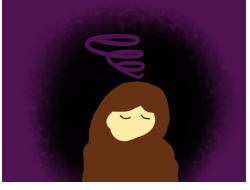
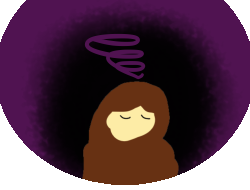
- More art - enhanced flavor text for relics during TSD - Demoralize changes - Burden buff - Gaze nerf - Giant Bow->Purple Bow - Unique dialog when getting the "bad" ending - Forget VFX position update

diff --git a/src/main/java/code/relics/Everything.java b/src/main/java/code/relics/Everything.java
@@ -4,49 +4,50 @@ import code.ModFile;
 import code.TheDisplaced;
 import com.megacrit.cardcrawl.cards.AbstractCard;
 import com.megacrit.cardcrawl.cards.CardGroup;
+import com.megacrit.cardcrawl.core.Settings;
 import com.megacrit.cardcrawl.dungeons.AbstractDungeon;
+import com.megacrit.cardcrawl.events.AbstractEvent;
 import com.megacrit.cardcrawl.helpers.CardLibrary;
 import com.megacrit.cardcrawl.relics.AbstractRelic;
 import com.megacrit.cardcrawl.unlock.UnlockTracker;
 import com.megacrit.cardcrawl.vfx.FastCardObtainEffect;
+import com.megacrit.cardcrawl.vfx.UpgradeShineEffect;
+import com.megacrit.cardcrawl.vfx.cardManip.ShowCardBrieflyEffect;
+
+import java.util.*;
 
 import static code.ModFile.makeID;
 
 public class Everything extends AbstractEasyRelic {
     public static final String ID = makeID("Everything");
 
-    private boolean choosing = false;
+    private static final int UPGRADES = 5;
     public Everything() {
         super(ID, RelicTier.BOSS, LandingSound.FLAT, TheDisplaced.Enums.DISPLACED_COLOR);
     }
 
     @Override
     public void onEquip() {
-        CardGroup group = new CardGroup(CardGroup.CardGroupType.UNSPECIFIED);
-        for (AbstractCard card : CardLibrary.getAllCards()) {
-            if (card.color == TheDisplaced.Enums.DISPLACED_COLOR) {
-                AbstractCard option = card.makeCopy();
-                for (AbstractRelic relic : AbstractDungeon.player.relics) {
-                    relic.onPreviewObtainCard(option);
-                    UnlockTracker.markCardAsSeen(option.cardID);
-                }
-                group.addToBottom(option);
+        AbstractDungeon.topLevelEffects.add(new UpgradeShineEffect((float) Settings.WIDTH / 2.0F, (float)Settings.HEIGHT / 2.0F));// 99
+        ArrayList<AbstractCard> upgradableCards = new ArrayList<>();
+
+        for(AbstractCard c : AbstractDungeon.player.masterDeck.group){
+            if (c.canUpgrade()) {
+                upgradableCards.add(c);
             }
-            choosing = true;
-            AbstractDungeon.gridSelectScreen.open(group, 1, "Choose a card to obtain.", false);
+        }
+
+        Collections.shuffle(upgradableCards, new Random(AbstractDungeon.miscRng.randomLong()));
+        for(int i = 0; i < UPGRADES && i < upgradableCards.size(); i++){
+            AbstractCard upgradedCard = upgradableCards.get(i);
+            upgradedCard.upgrade();
+            AbstractDungeon.player.bottledCardUpgradeCheck(upgradedCard);
+            AbstractDungeon.effectList.add(new ShowCardBrieflyEffect(upgradedCard.makeStatEquivalentCopy()));
         }
     }
 
     @Override
-    public void update()
-    {
-        super.update();
-        if (choosing && !AbstractDungeon.gridSelectScreen.selectedCards.isEmpty()){
-            choosing = false;
-            AbstractCard selected = AbstractDungeon.gridSelectScreen.selectedCards.get(0);
-            AbstractDungeon.gridSelectScreen.selectedCards.clear();
-            UnlockTracker.markCardAsSeen(selected.cardID);
-            AbstractDungeon.effectsQueue.add(new FastCardObtainEffect(selected, selected.current_x, selected.current_y));
-        }
+    public String getUpdatedDescription() {
+        return DESCRIPTIONS[0] + UPGRADES + DESCRIPTIONS[1];
     }
 }

diff --git a/src/main/java/code/patches/SpireHeartPatch.java b/src/main/java/code/patches/SpireHeartPatch.java
@@ -1,0 +1,44 @@
+package code.patches;
+
+import basemod.ReflectionHacks;
+import code.TheDisplaced;
+import com.evacipated.cardcrawl.modthespire.lib.*;
+import com.evacipated.cardcrawl.modthespire.patcher.PatchingException;
+import com.megacrit.cardcrawl.dungeons.AbstractDungeon;
+import javassist.CannotCompileException;
+import javassist.CtBehavior;
+import com.megacrit.cardcrawl.events.beyond.SpireHeart;
+
+import java.text.NumberFormat;
+import java.util.Locale;
+
+@SpirePatch2(
+    clz=SpireHeart.class,
+    method="buttonEffect"
+)
+public class SpireHeartPatch {
+
+    @SpireInsertPatch(locator = InDeathCaseLocator.class)
+    public static void LocalCase(SpireHeart __instance) {
+        if(AbstractDungeon.player instanceof TheDisplaced){
+            long globalDamageDealt = ReflectionHacks.getPrivate(__instance, SpireHeart.class, "globalDamageDealt");
+            String[] eventText = ReflectionHacks.getPrivate(__instance, SpireHeart.class, "DESCRIPTIONS");
+
+            long totalDamageDealt = ReflectionHacks.getPrivate(__instance, SpireHeart.class, "totalDamageDealt");
+            NumberFormat numberFormat = NumberFormat.getNumberInstance(Locale.US);
+            if(globalDamageDealt <= 0L){
+                __instance.roomEventText.updateBodyText(eventText[3] + numberFormat.format(totalDamageDealt) + eventText[4] + TheDisplaced.getHeartFailureText());
+            }else{
+                __instance.roomEventText.updateBodyText(eventText[3] + numberFormat.format(totalDamageDealt) + eventText[4] + eventText[5] + numberFormat.format(globalDamageDealt) + eventText[6] + TheDisplaced.getHeartFailureText());
+            }
+        }
+    }
+
+    private static class InDeathCaseLocator extends SpireInsertLocator {
+        public int[] Locate(CtBehavior ctMethodToPatch) throws CannotCompileException, PatchingException {
+            Matcher finalMatcher = new Matcher.MethodCallMatcher("com.megacrit.cardcrawl.events.RoomEventDialog", "updateDialogOption");
+            int[] allLocations = LineFinder.findAllInOrder(ctMethodToPatch, finalMatcher);
+            return new int[]{allLocations[3]};
+        }
+    }
+}

diff --git a/src/main/java/code/relics/AbstractEasyRelic.java b/src/main/java/code/relics/AbstractEasyRelic.java
@@ -1,7 +1,15 @@
 package code.relics;
 
+import basemod.ReflectionHacks;
 import basemod.abstracts.CustomRelic;
+import code.ModFile;
+import code.patches.CardStringsPatch;
+import code.patches.RelicStringsPatch;
+import code.util.charUtil.CardUtil;
+import com.evacipated.cardcrawl.mod.stslib.patches.FlavorText;
 import com.megacrit.cardcrawl.cards.AbstractCard;
+import com.megacrit.cardcrawl.core.CardCrawlGame;
+import com.megacrit.cardcrawl.localization.RelicStrings;
 import com.megacrit.cardcrawl.relics.AbstractRelic;
 import code.util.TexLoader;
 
@@ -23,5 +31,21 @@ public abstract class AbstractEasyRelic extends CustomRelic {
 
     public String getUpdatedDescription() {
         return DESCRIPTIONS[0];
+    }
+
+    /*
+    This method is called on the relic whenever the popup view is opened. How convenient!
+     */
+    @Override
+    public void playLandingSFX(){
+        super.playLandingSFX();
+
+        RelicStrings relicStrings = ReflectionHacks.getPrivateInherited(this, AbstractEasyRelic.class, "relicStrings");
+
+        if(CardUtil.isTimeStopped() && RelicStringsPatch.RelicStringsFlavorField.enhancedFlavor.get(relicStrings) != null){
+            this.flavorText = RelicStringsPatch.RelicStringsFlavorField.enhancedFlavor.get(relicStrings);
+        }else{
+            this.flavorText = relicStrings.FLAVOR;
+        }
     }
 }

diff --git a/src/main/java/code/actions/DisplayCardAction.java b/src/main/java/code/actions/DisplayCardAction.java
@@ -7,25 +7,20 @@ import com.megacrit.cardcrawl.dungeons.AbstractDungeon;
 
 public class DisplayCardAction extends AbstractGameAction {
     private AbstractCard card;
-    boolean toTheSide = false;
     public DisplayCardAction(AbstractCard cardIn) {
         this.duration = 0.6f;
         card = cardIn;
         this.actionType = ActionType.SPECIAL;
-        toTheSide = false;
-    }
-
-    public DisplayCardAction(AbstractCard cardIn, boolean toTheSideIn) {
-        this.duration = 0.6f;
-        card = cardIn;
-        this.actionType = ActionType.SPECIAL;
-        toTheSide = toTheSideIn;
     }
 
     public void update() {
         if (this.duration == 0.6f) {
             AbstractDungeon.player.limbo.group.add(card);
-            card.target_x = ((float)Settings.WIDTH / 2.0F) + (toTheSide ? (150 * Settings.xScale) : 0);
+            if(card.current_x >= Settings.WIDTH / 2.0f){
+                card.target_x = ((float)Settings.WIDTH / 2.0F) + (300 * Settings.scale);
+            }else{
+                card.target_x = ((float)Settings.WIDTH / 2.0F) - (300 * Settings.scale);
+            }
             card.target_y = (float)Settings.HEIGHT / 2.0F;
             card.targetAngle = 0.0F;
             card.drawScale = 0.25F;

diff --git a/src/main/java/code/util/charUtil/mods/TemporaryModifier.java b/src/main/java/code/util/charUtil/mods/TemporaryModifier.java
@@ -51,13 +51,17 @@ public class TemporaryModifier extends AbstractCardModifier {
         card.initializeDescription();
         if (counter <= 0) {
             if(group.type != CardGroup.CardGroupType.HAND) {
+                card.drawScale = 0.75f;
                 if (group.type == CardGroup.CardGroupType.DRAW_PILE) {
+                    card.current_x = CardGroup.DRAW_PILE_X;
+                    card.current_y = CardGroup.DRAW_PILE_Y;
                     card.target_x = MathUtils.random((float) Settings.WIDTH * 0.1F, (float) Settings.WIDTH * 0.4F);
                 } else if (group.type == CardGroup.CardGroupType.DISCARD_PILE) {
+                    card.current_x = CardGroup.DISCARD_PILE_X;
+                    card.current_y = CardGroup.DISCARD_PILE_Y;
                     card.target_x = MathUtils.random((float) Settings.WIDTH * 0.6F, (float) Settings.WIDTH * 0.9F);
                 }
                 card.target_y = MathUtils.random((float)Settings.HEIGHT * 0.8F, (float)Settings.HEIGHT * 0.35F);
-
             }
             this.addToTop(new ExhaustSpecificCardAction(card, group, false));
         }

diff --git a/src/main/java/code/cards/collectible/uncommon/skill/LetGo.java b/src/main/java/code/cards/collectible/uncommon/skill/LetGo.java
@@ -8,6 +8,7 @@ import com.megacrit.cardcrawl.actions.AbstractGameAction;
 import com.megacrit.cardcrawl.actions.common.ExhaustSpecificCardAction;
 import com.megacrit.cardcrawl.actions.common.GainEnergyAction;
 import com.megacrit.cardcrawl.cards.AbstractCard;
+import com.megacrit.cardcrawl.cards.CardGroup;
 import com.megacrit.cardcrawl.characters.AbstractPlayer;
 import com.megacrit.cardcrawl.core.Settings;
 import com.megacrit.cardcrawl.monsters.AbstractMonster;
@@ -27,6 +28,8 @@ public class LetGo extends AbstractEasyCard {
             public void update() {
                 if(!p.drawPile.isEmpty()) {
                     AbstractCard toExhaust = p.drawPile.getTopCard();
+                    toExhaust.current_x = CardGroup.DRAW_PILE_X;
+                    toExhaust.current_y = CardGroup.DRAW_PILE_Y;
                     toExhaust.target_x = (float) Settings.WIDTH / 2.0F - 300.0F * Settings.scale;
                     toExhaust.target_y = (float) Settings.HEIGHT / 2.0F;
                     addToTop(new ExhaustSpecificCardAction(toExhaust, p.drawPile));

diff --git a/src/main/java/code/cards/collectible/uncommon/skill/Burden.java b/src/main/java/code/cards/collectible/uncommon/skill/Burden.java
@@ -15,20 +15,23 @@ public class Burden extends AbstractEasyCard implements ForgetCard {
     public final static String ID = makeID(Burden.class.getSimpleName());
 
     public Burden() {
-        super(ID, -2, CardType.SKILL, CardRarity.UNCOMMON, CardTarget.SELF);
+        super(ID, 2, CardType.SKILL, CardRarity.UNCOMMON, CardTarget.SELF);
         baseMagicNumber = magicNumber = 4;
+        exhaust = true;
     }
 
     public void use(AbstractPlayer p, AbstractMonster m) {
     }
 
+    /*
     public boolean canUse(AbstractPlayer p, AbstractMonster m) {
         this.cantUseMessage = cardStrings.EXTENDED_DESCRIPTION[0];
         return false;
     }
 
+     */
+
     public void upp() {
-        upgradeBlock(2);
         upgradeMagicNumber(2);
     }
 

diff --git a/src/main/java/code/patches/RelicStringsPatch.java b/src/main/java/code/patches/RelicStringsPatch.java
@@ -1,0 +1,23 @@
+package code.patches;
+
+import com.evacipated.cardcrawl.modthespire.lib.SpireField;
+import com.evacipated.cardcrawl.modthespire.lib.SpirePatch;
+import com.google.gson.annotations.SerializedName;
+import com.megacrit.cardcrawl.localization.CardStrings;
+import com.megacrit.cardcrawl.localization.RelicStrings;
+
+public class RelicStringsPatch {
+    @SpirePatch(
+            clz = RelicStrings.class,
+            method = "<class>"
+    )
+    public static class RelicStringsFlavorField {
+        @SerializedName("ENHANCED_FLAVOR")
+        public static SpireField<String> enhancedFlavor = new SpireField(() -> {
+            return null;
+        });
+
+        public RelicStringsFlavorField() {
+        }
+    }
+}

diff --git a/src/main/java/code/TheDisplaced.java b/src/main/java/code/TheDisplaced.java
@@ -39,7 +39,7 @@ public class TheDisplaced extends CustomPlayer {
     static final String[] TEXT = characterStrings.TEXT;
 
     public static String getNeowGreeting(){
-        return characterStrings.TEXT[MathUtils.random(5,TEXT.length - 1)];
+        return characterStrings.TEXT[MathUtils.random(6,TEXT.length - 1)];
     }
 
     public static String getSensoryStone(){
@@ -48,6 +48,10 @@ public class TheDisplaced extends CustomPlayer {
 
     public static String getGhostsDialog(){
         return characterStrings.TEXT[4];
+    }
+
+    public static String getHeartFailureText(){
+        return characterStrings.TEXT[5];
     }
 
     public TheDisplaced(String name, PlayerClass setClass) {

diff --git a/src/main/java/code/cards/collectible/common/skill/FutureSight.java b/src/main/java/code/cards/collectible/common/skill/FutureSight.java
@@ -15,7 +15,7 @@ public class FutureSight extends AbstractEasyCard implements ForgetCard {
     public FutureSight() {
         super(ID, 1, CardType.SKILL, CardRarity.COMMON, CardTarget.SELF);
         isEthereal = true;
-        baseBlock = block = 7;
+        baseBlock = block = 10;
         baseMagicNumber = magicNumber = 1;
     }
 
@@ -24,7 +24,8 @@ public class FutureSight extends AbstractEasyCard implements ForgetCard {
     }
 
     public void upp() {
-        upgradeMagicNumber(1);
+        upgradeBlock(3);
+        //upgradeMagicNumber(1);
     }
 
     @Override

diff --git a/src/main/java/code/ModFile.java b/src/main/java/code/ModFile.java
@@ -52,7 +52,8 @@ public class ModFile implements
         OnPlayerTurnStartSubscriber,
         OnStartBattleSubscriber,
         PostExhaustSubscriber,
-        PostDeathSubscriber{
+        PostDeathSubscriber,
+        PostBattleSubscriber{
 
     public static final String modID = "displacedmod";
 
@@ -279,5 +280,10 @@ public class ModFile implements
             throw new RuntimeException(e);
         }
         return record;
+    }
+
+    @Override
+    public void receivePostBattle(AbstractRoom abstractRoom) {
+        CardUtil.cardsPlayedLastTurn.clear();
     }
 }

diff --git a/src/main/java/code/cards/collectible/common/attack/RecurringDream.java b/src/main/java/code/cards/collectible/common/attack/RecurringDream.java
@@ -42,10 +42,11 @@ public class RecurringDream extends AbstractEasyCard {
     }
 
     @Override
-    public void update(){
-        super.update();
-        for(AbstractCard card : AbstractDungeon.actionManager.cardsPlayedThisTurn){
-            if(card instanceof RecurringDream){
+    public void applyPowers() {
+        super.applyPowers();
+
+        for (AbstractCard card : AbstractDungeon.actionManager.cardsPlayedThisTurn) {
+            if (card instanceof RecurringDream) {
                 setCostForTurn(0);
                 return;
             }
